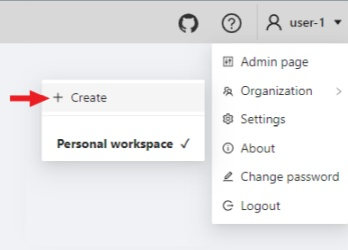
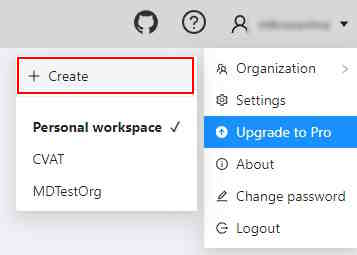
updated documentation and images

diff --git a/site/content/en/docs/manual/advanced/organization.md b/site/content/en/docs/manual/advanced/organization.md
@@ -5,57 +5,134 @@ weight: 2
 description: 'Using organization in CVAT.'
 ---
 
+
+**Organization** is a feature for teams of several users
+who work together on projects and share tasks.
+
+Create an **Organization**, invite your team members, and assign
+roles to make the team work better on shared tasks.
+
+
+See:
+
+- [Personal workspace](#personal-workspace)
+- [Create new organization](#create-new-organization)
+  - [Switching between organizations](#switching-between-organizations)
+- [Organization page](#organization-page)
+  - [Invite members into organization](#invite-members-into-organization)
+  - [Delete organization](#delete-organization)
+
 ## Personal workspace
 
-Your `Personal workspace` will display the tasks and projects you've created.
+The account's default state is activated when no **Organization** is selected.
 
-## Create a new organization
+It means that a personal account is used.
 
-To create an organization, open the user menu, go to `Organization` and click `Create`.
+  ![](/images/personal_account.jpg)
 
-![](/images/image233.jpg)
+## Create new organization
 
-Fill in the required information to create your organization.
-You need to enter a `Short name` of the organization, which will be displayed in the menu.
-You can specify other fields: `Full Name`, `Description` and the organization contacts.
-Of them will be visible on the organization settings page.
+To create an organization, do the following:
 
-![](/images/image234.jpg)
+1. Log in to the CVAT.
+2. On the top menu, click your **Username** > **Organization** > **+ Create**.
+
+   ![](/images/image233.jpg)
+
+3. Fill in the following fields and click **Submit**.
+
+   ![](/images/image234.jpg)
+
+<!--lint disable maximum-line-length-->
+|Field|Description|
+|---|---|
+|**Short name**|A name of the organization that will be displayed in the CVAT menu|
+|**Full Name**|Optional. Full name of the organization.|
+|**Description**|Optional. Description of organization|
+|**Email**|Optional. Your email|
+|**Phone number**|Optional. Your phone number|
+|**Location**|Optional. Organization address.|
+
+<!--lint enable maximum-line-length-->
+
+The created organization will be available
+at you **nickname** > **Organization**
+
+
+### Switching between organizations
+
+If you have more than one **Organization**,
+it is possible to switch between these **Organizations** at any given time.
+
+Follow these steps:
+
+1. In the top menu, select your **Username** > **Organization**.
+2. From the drop-down menu, under the **Personal space** section,
+   choose the desired **Organization**.
+
+ ![](/images/image233_1.jpg)
+
 
 ## Organization page
 
-To go to the organization page, open the user menu, go to `Organization` and click `Settings`.
+**Organization page** is a place, where you can edit the **Organization** information
+and invite users to **Organization**.
+
+ ![](/images/orgpage.jpg)
+
+To go to the O**rganization page**, do the following:
+
+1. On the top menu, click your **Username** > **Organization**.
+2. In the drop-down menu, select **Organization**.
+3. In the drop-down menu, click **Settings**.
 
 ![](/images/image235.jpg)
 
 ### Invite members into organization
 
-To add members, click `Invite members`. In the window that appears,
-enter the email of the user you want to add and select the role (the role defines a set of rules):
+To add members to **Organization** do the following:
 
-- `Worker` - workers have only access to tasks, projects, and jobs, assigned to them.
-- `Supervisor` - this role allows you to create and assign jobs, tasks and projects to members of the organization.
-- `Maintainer` - a member with this role has all the capabilities of the role supervisor,
-  sees all the tasks and the projects created by other members of the organization,
-  has full access to the `Cloud Storages` feature, and can modify members and their roles.
-- `Owner` - a role assigned to the creator of the organization with maximum capabilities.
+1. Go to the [**Organization page**](#organization-page), and click **Invite members**.
+2. Fill in the form (see below).
 
-In addition to roles, there are groups of users that are configured on the `Admin page`.
-Read more about the roles in [IAM system roles section](/docs/administration/advanced/iam_system_roles).
+   ![](/images/image236.jpg)
 
-![](/images/image236.jpg)
+3. Click **Ok**.
 
-After you add members, they will appear on your organization settings page,
-with each member listed and information about invitation details.
-You can change a member's role or remove a member at any time.
+The **Invite Members** form has the following fields:
+
+![](/images/invitemembers.jpg)
+
+<!--lint disable maximum-line-length-->
+
+|Field| Description|
+|---|---|
+|**Email**|Specifies the email address of the user who is being added to the **Organization**.|
+|Role drop-down list|Defines the role of the user which sets the level of access within the **Organization**: <br><li>**Worker**: Has access only to the tasks, projects, and jobs assigned to them. <li>**Supervisor**: Can create and assign jobs, tasks, and projects to the **Organization** members. <li>**Maintainer**: Has the same capabilities as the **Supervisor**, but with additional visibility over all tasks and projects created by other members, complete access to **Cloud Storages**, and the ability to modify members and their roles. <li>**Owner**: role assigned to the creator of the organization by default. Has maximum capabilities and cannot be changed or assigned to the other user.|
+|**Invite more**|Button to add another user to the **Organization**.|
+<!--lint enable maximum-line-length-->
+
+
+
+Members of **Organization** will appear on the **Organization page**.
+
 
 ![](/images/image237.jpg)
 
-The member can leave the organization on his own by clicking `Leave organization` on the organization settings page.
 
-### Remove organization
+The member of the organization can leave the organization
+by going to **Organization page** > **Leave organization**.
+
+### Delete organization
 
 You can remove an organization that you created.
-Deleting an organization will delete all related resources (annotations, jobs, tasks, projects, cloud storages, ..).
-In order to remove an organization, click `Remove organization`,
-you will be asked to confirm the deletion by entering the short name of the organization.
+
+> **Note**:  Removing an organization will delete all related resources (annotations,
+jobs, tasks, projects, cloud storage, and so on).
+
+To remove an organization, do the following:
+
+1. Go to the **Organization page**.
+2. In the top-right corner click **Actions** > **Remove organization**.
+3.  Enter the short name of the organization in the dialog field.
+4.  Click **Remove**.
